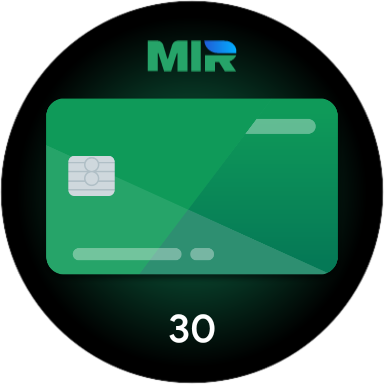
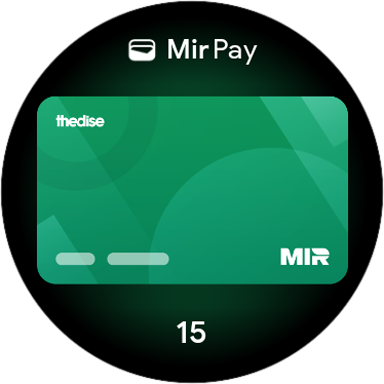
upd screenshot and add gallery of cards

Changed region(s): [[0.0938, 0.25, 0.9062, 0.75], [0.3125, 0.0938, 0.6875, 0.1875], [0.4375, 0.8125, 0.5625, 0.9062]]

diff --git a/README.md b/README.md
@@ -8,9 +8,13 @@ Mir Pay Companion is an Android application designed to enhance the Mir Pay expe
 
 ## Features
 
-- Screen On During Transaction: Prevents the screen from turning off during Mir Pay transactions, ensuring a smooth and successful payment experience;
-- Tap the card to reset the timer;
+- The application is launched via **Complication**, a shortcut in the list of all applications opens the settings;
+- 13 different card designs to suit your taste;
 - Auto close application when timer expires.
+
+## Cards Design 
+
+![gallery](/images/cards-preview.png)
 
 ## Installation
 
